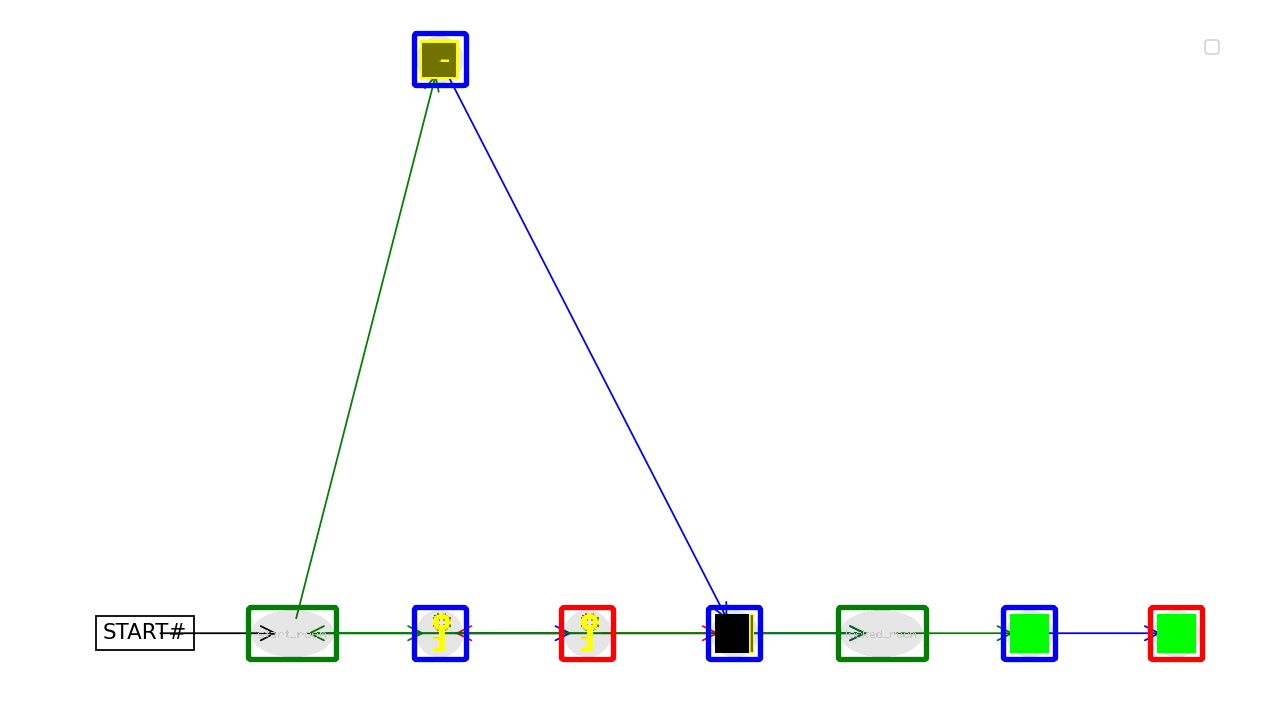
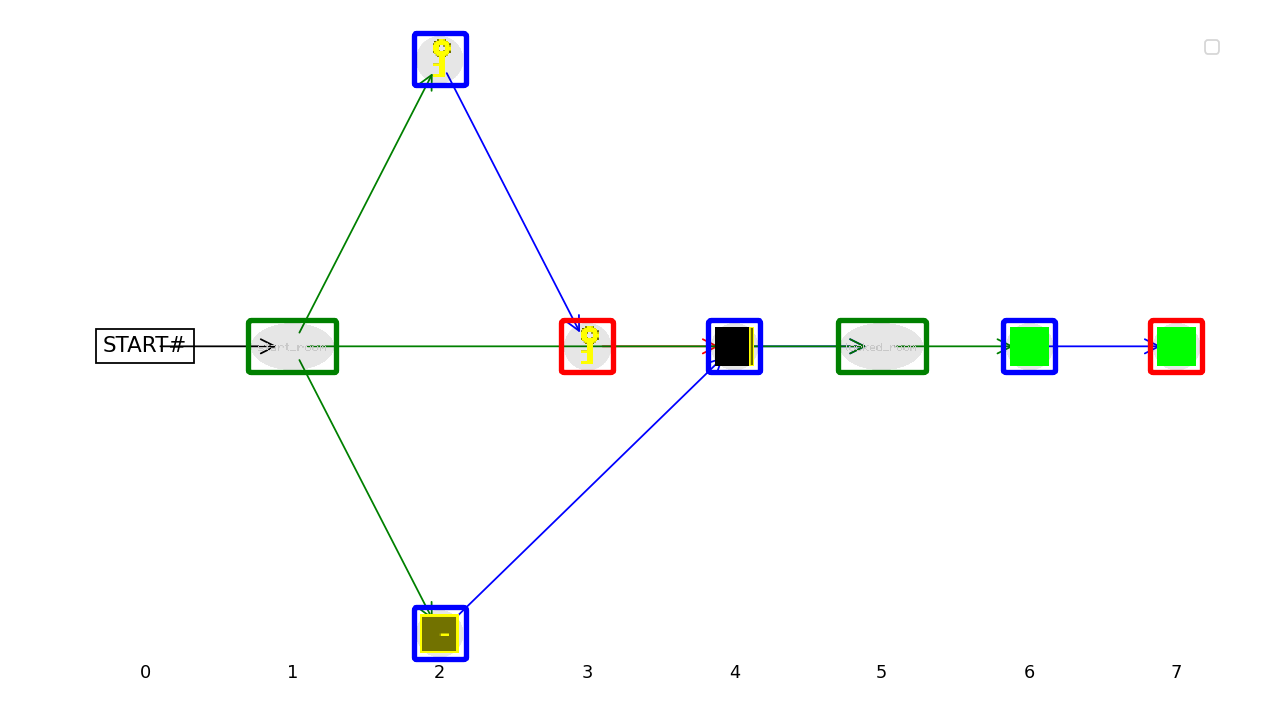
🎨 Switch to simpler multipartite_layout

diff --git a/src/crafting/requirements.py b/src/crafting/requirements.py
@@ -76,7 +76,6 @@ import matplotlib.patches as mpatches
 import networkx as nx
 import numpy as np
 from hebg.graph import draw_networkx_nodes_images, get_nodes_by_level
-from hebg.layouts.metabased import leveled_layout_energy
 from matplotlib.axes import Axes
 from matplotlib.legend_handler import HandlerPatch
 
@@ -151,12 +150,7 @@ class Requirements:
         self._acydigraph: nx.DiGraph = None
         self._build()
 
-    def draw(
-        self,
-        ax: Axes,
-        theme: RequirementTheme = RequirementTheme(),
-        layout: "RequirementsGraphLayout" = "level",
-    ) -> None:
+    def draw(self, ax: Axes, theme: RequirementTheme = RequirementTheme()) -> None:
         """Draw the requirements graph on the given Axes.
 
         Args:
@@ -164,7 +158,7 @@ class Requirements:
             layout: Drawing layout. Defaults to "level".
         """
         draw_requirements_graph(
-            ax, self, theme, resources_path=self.world.resources_path, layout=layout
+            ax, self, theme, resources_path=self.world.resources_path
         )
 
     @property
@@ -485,19 +479,11 @@ def _available_in_zones_stacks(
     return all(is_available.values())
 
 
-class RequirementsGraphLayout(Enum):
-    LEVEL = "level"
-    """Layout using requirement level and a metaheuristic."""
-    SPRING = "spring"
-    """Classic spring layout."""
-
-
 def draw_requirements_graph(
     ax: Axes,
     requirements: Requirements,
     theme: RequirementTheme,
     resources_path: str,
-    layout: RequirementsGraphLayout = "level",
 ):
     """Draw the requirement graph on a given Axes.
 
@@ -508,21 +494,14 @@ def draw_requirements_graph(
         The Axes with requirements_graph drawn on it.
 
     """
-    digraph = requirements.digraph
+    G = requirements.acydigraph
+    pos = nx.multipartite_layout(G, subset_key="level")
 
-    layout = RequirementsGraphLayout(layout)
-    if layout == RequirementsGraphLayout.LEVEL:
-        pos = leveled_layout_energy(digraph)
-    elif layout == RequirementsGraphLayout.SPRING:
-        pos = nx.spring_layout(digraph)
-
-    edges_colors = [
-        theme.color(edge_type) for _, _, edge_type in digraph.edges(data="type")
-    ]
-    edges_alphas = [_compute_edge_alpha(*edge, digraph) for edge in digraph.edges()]
+    edges_colors = [theme.color(edge_type) for _, _, edge_type in G.edges(data="type")]
+    edges_alphas = [_compute_edge_alpha(*edge, G) for edge in G.edges()]
     # Plain edges
     nx.draw_networkx_edges(
-        digraph,
+        G,
         pos=pos,
         ax=ax,
         arrowsize=20,
@@ -531,20 +510,20 @@ def draw_requirements_graph(
         alpha=edges_alphas,
     )
 
-    for node, node_data in digraph.nodes(data=True):
+    for node, node_data in G.nodes(data=True):
         node_obj = node_data.get("obj", None)
         if node_obj is not None:
-            digraph.nodes[node]["color"] = theme.color(node_data["type"])
+            G.nodes[node]["color"] = theme.color(node_data["type"])
             image = load_or_create_image(node_obj, resources_path, bg_color=(0, 0, 0))
-            digraph.nodes[node]["image"] = np.array(image)
-    draw_networkx_nodes_images(digraph, pos, ax=ax, img_zoom=0.3)
+            G.nodes[node]["image"] = np.array(image)
+    draw_networkx_nodes_images(G, pos, ax=ax, img_zoom=0.3)
 
     # Add legend for edges (if any for each type)
     legend_arrows = []
     for legend_edge_type in RequirementEdge:
         has_type = [
             edge_type == legend_edge_type.value
-            for _, _, edge_type in digraph.edges(data="type")
+            for _, _, edge_type in G.edges(data="type")
         ]
         if any(has_type):
             legend_arrows.append(
@@ -560,8 +539,7 @@ def draw_requirements_graph(
     legend_patches = []
     for legend_node_type in RequirementNode:
         has_type = [
-            node_type == legend_node_type.value
-            for _, node_type in digraph.nodes(data="type")
+            node_type == legend_node_type.value for _, node_type in G.nodes(data="type")
         ]
         if any(has_type):
             legend_patches.append(
@@ -593,14 +571,17 @@ def draw_requirements_graph(
     ax.margins(0, 0)
 
     # Add Hierarchies numbers
-    if layout == "level":
-        nodes_by_level: Dict[int, Any] = digraph.graph["nodes_by_level"]
-        for level, level_nodes in nodes_by_level.items():
-            level_poses = np.array([pos[node] for node in level_nodes])
-            mean_x = np.mean(level_poses[:, 0])
-            if level == 0:
-                ax.text(mean_x - 1, -0.07, "Depth", ha="left", va="center")
-            ax.text(mean_x, -0.07, str(level), ha="center", va="center")
+    nodes_by_level: Dict[int, Any] = G.graph["nodes_by_level"]
+    min_y = min(y for _, y in pos.values())
+    max_y = max(y for _, y in pos.values())
+    height = max_y - min_y
+    text_y = min_y - 0.07 * height
+    for level, level_nodes in nodes_by_level.items():
+        level_poses = np.array([pos[node] for node in level_nodes])
+        mean_x = np.mean(level_poses[:, 0])
+        if level == 0:
+            ax.text(mean_x - 1, text_y, "Depth", ha="left", va="center")
+        ax.text(mean_x, text_y, str(level), ha="center", va="center")
     return ax
 
 
